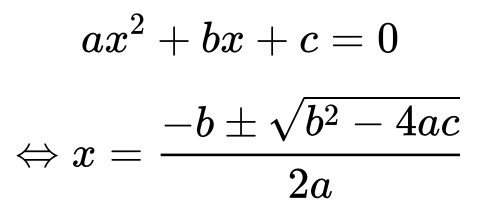
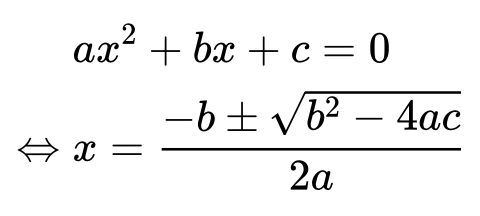
Some minor fixes on README.md and README-ja.md

diff --git a/README-ja.md b/README-ja.md
@@ -24,7 +24,7 @@ MarkdownのPDFコンバーターです。
 
 以下のスタイルについてはカスタマイズが可能です。
 
-* 言語設定(西欧・日本語・韓国語・中国語、自動推測可)
+* 言語設定(自動推測可)
 * 段落スタイル(インデントあり・段落間マージンあり)
 * 色設定(カラー・グレイスケール・モノクロ)
 
@@ -32,8 +32,8 @@ MarkdownのPDFコンバーターです。
 
 * GitHub Flavored Markdown
 * コードのハイライト
-* Mermaid
-* LaTeXによる数式
+* Mermaidによる図表
+* KaTeXによる数式
 
 使い方
 ------
@@ -288,9 +288,9 @@ function long_proc(list) {
 ```
 ````
 
-### 4\. LaTeX
+### 4\. KaTeX
 
-`$`〜`$`または`$$`〜`$$`で囲んだLaTeXの数式記述は、[KaTeX](https://katex.org/)で描画されます。
+`$`〜`$`または`$$`〜`$$`で囲んだTeX形式の数式は、[KaTeX](https://katex.org/)で描画されます。
 `$`〜`$`で囲んだ部分はインライン数式として、`$$`〜`$$`で囲んだ部分はブロック数式として、それぞれ描画されます。
 
 例えば、以下のようなインライン数式は、
@@ -309,8 +309,10 @@ Euler's formula: $e^{i\theta}=\cos\theta+i\sin\theta$
 
 ```markdown
 $$
-ax^2+bx+c=0 \\
-\Leftrightarrow x = \frac{-b\pm\sqrt{b^2-4ac}}{2a}
+\begin{split}
+  &ax^2+bx+c=0 \\
+  \Leftrightarrow {}&x = \frac{-b\pm\sqrt{b^2-4ac}}{2a}
+\end{split}
 $$
 ```
 

diff --git a/README.md b/README.md
@@ -23,16 +23,16 @@ Those style is built with consciousness of paper prints:
 
 Some kinds of the style are customizable:
 
-* Language scheme (Latin, Japanese, Korean, Chinese; auto guess available)
-* Paragraph stye (indented, gapped)
-* Color scheme (color, grayscale, monochrome)
+* Language scheme (Auto guess available)
+* Paragraph stye (indented or gapped)
+* Color scheme (color, grayscale or monochrome)
 
 It accepts Markdown format like below:
 
 * GitHub Flavored Markdown
 * Code highlight
-* Mermaid
-* Math formula with LaTeX
+* Diagram with Mermaid
+* Math formula with KaTeX
 
 How to Use
 ----------
@@ -288,9 +288,9 @@ function long_proc(list) {
 ```
 ````
 
-### 4\. LaTeX
+### 4\. KaTeX
 
-LaTeX formulas surrounded by `$` or `$$` are passed to [KaTeX](https://katex.org/).
+TeX-style formulas surrounded by `$` or `$$` are passed to [KaTeX](https://katex.org/).
 The parts surrounded by `$` are rendered as inline formulas, and those by `$$` as block ones.
 
 For example, the inline formula below:
@@ -309,8 +309,10 @@ And the block formula below:
 
 ```markdown
 $$
-ax^2+bx+c=0 \\
-\Leftrightarrow x = \frac{-b\pm\sqrt{b^2-4ac}}{2a}
+\begin{split}
+  &ax^2+bx+c=0 \\
+  \Leftrightarrow {}&x = \frac{-b\pm\sqrt{b^2-4ac}}{2a}
+\end{split}
 $$
 ```
 
